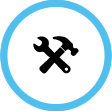
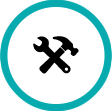
color change

Changed region(s): [[0.0, 0.0, 1.0, 1.0]]

diff --git a/css/style.css b/css/style.css
@@ -886,7 +886,7 @@ body {
   font-size: 14px;
   line-height: 1.42857143;
   color: #ffffff;
-  background-color: #464637;
+  background-color: #333333;
 }
 input,
 button,
@@ -932,7 +932,7 @@ img {
 .img-thumbnail {
   padding: 4px;
   line-height: 1.42857143;
-  background-color: #464637;
+  background-color: #333333;
   border: 1px solid #dddddd;
   border-radius: 4px;
   -webkit-transition: all 0.2s ease-in-out;
@@ -2080,7 +2080,7 @@ th {
   border-top: 2px solid #dddddd;
 }
 .table .table {
-  background-color: #464637;
+  background-color: #333333;
 }
 .table-condensed > thead > tr > th,
 .table-condensed > tbody > tr > th,
@@ -3622,7 +3622,7 @@ select[multiple].input-group-sm > .input-group-btn > .btn {
 .nav-tabs > li.active > a:hover,
 .nav-tabs > li.active > a:focus {
   color: #555555;
-  background-color: #464637;
+  background-color: #333333;
   border: 1px solid #dddddd;
   border-bottom-color: transparent;
   cursor: default;
@@ -3668,7 +3668,7 @@ select[multiple].input-group-sm > .input-group-btn > .btn {
   .nav-tabs.nav-justified > .active > a,
   .nav-tabs.nav-justified > .active > a:hover,
   .nav-tabs.nav-justified > .active > a:focus {
-    border-bottom-color: #464637;
+    border-bottom-color: #333333;
   }
 }
 .nav-pills > li {
@@ -3736,7 +3736,7 @@ select[multiple].input-group-sm > .input-group-btn > .btn {
   .nav-tabs-justified > .active > a,
   .nav-tabs-justified > .active > a:hover,
   .nav-tabs-justified > .active > a:focus {
-    border-bottom-color: #464637;
+    border-bottom-color: #333333;
   }
 }
 .tab-content > .tab-pane {
@@ -4072,8 +4072,8 @@ select[multiple].input-group-sm > .input-group-btn > .btn {
   }
 }
 .navbar-default {
-  background-color: #0f749e;
-  border-color: #0c5e7f;
+  background-color: #112f41;
+  border-color: #0a1c27;
 }
 .navbar-default .navbar-brand {
   color: #ffffff;
@@ -4098,7 +4098,7 @@ select[multiple].input-group-sm > .input-group-btn > .btn {
 .navbar-default .navbar-nav > .active > a:hover,
 .navbar-default .navbar-nav > .active > a:focus {
   color: #cccccc;
-  background-color: #0c5e7f;
+  background-color: #0a1c27;
 }
 .navbar-default .navbar-nav > .disabled > a,
 .navbar-default .navbar-nav > .disabled > a:hover,
@@ -4118,12 +4118,12 @@ select[multiple].input-group-sm > .input-group-btn > .btn {
 }
 .navbar-default .navbar-collapse,
 .navbar-default .navbar-form {
-  border-color: #0c5e7f;
+  border-color: #0a1c27;
 }
 .navbar-default .navbar-nav > .open > a,
 .navbar-default .navbar-nav > .open > a:hover,
 .navbar-default .navbar-nav > .open > a:focus {
-  background-color: #0c5e7f;
+  background-color: #0a1c27;
   color: #cccccc;
 }
 @media (max-width: 767px) {
@@ -4139,7 +4139,7 @@ select[multiple].input-group-sm > .input-group-btn > .btn {
   .navbar-default .navbar-nav .open .dropdown-menu > .active > a:hover,
   .navbar-default .navbar-nav .open .dropdown-menu > .active > a:focus {
     color: #cccccc;
-    background-color: #0c5e7f;
+    background-color: #0a1c27;
   }
   .navbar-default .navbar-nav .open .dropdown-menu > .disabled > a,
   .navbar-default .navbar-nav .open .dropdown-menu > .disabled > a:hover,
@@ -4567,7 +4567,7 @@ a.list-group-item.active > .badge,
   padding: 4px;
   margin-bottom: 20px;
   line-height: 1.42857143;
-  background-color: #464637;
+  background-color: #333333;
   border: 1px solid #dddddd;
   border-radius: 4px;
   -webkit-transition: all 0.2s ease-in-out;
@@ -6198,16 +6198,16 @@ body {
   display: inline-block;
 }
 .orangeBg {
-  background: #ffbf00;
-  border: 1px solid #997300;
+  background: #fc5b3f;
+  border: 1px solid #fb300d;
 }
 .lightGreenBg {
-  background: #ccc314;
-  border: 1px solid #6f6a0b;
+  background: #6fb07f;
+  border: 1px solid #549865;
 }
 .lightBlueBg {
-  background: #1496cc;
-  border: 1px solid #0b526f;
+  background: #068587;
+  border: 1px solid #045556;
 }
 .wrapper {
   width: 100%;

diff --git a/index.html b/index.html
@@ -20,7 +20,9 @@
   
        <nav class="navbar navbar-default container-fluid" role="navigation">
           <div class="container-fluid">
-            <!-- Brand and toggle get grouped for better mobile display -->
+           <div class="col-md-2"></div>
+           <div class="col-md-4 col-md-offset-2">
+                <!-- Brand and toggle get grouped for better mobile display -->
             <div class="navbar-header">
               <button type="button" class="navbar-toggle collapsed" data-toggle="collapse" data-target="#bs-example-navbar-collapse-1">
                 <span class="sr-only">Toggle navigation</span>
@@ -41,6 +43,9 @@
        
        
             </div><!-- /.navbar-collapse -->
+           </div>
+           <div class="col-md-2"></div>
+           
           </div><!-- /.container-fluid -->
         </nav>
 
@@ -95,10 +100,29 @@
             <div class="col-xs-12">&nbsp;</div>
         </div>
         <div class="row">
-            <div class="col-xs-10">
+            <div class="col-xs-12">
                 <h2>
-                    Graphs?
+                    Graphs
                 </h2>
+            </div>
+        </div>
+        <div class="row">
+            <div class="col-xs-10 col-md-3">
+                
+                <h3>
+                    Weight
+                </h3>
+                <p>
+                    Start: 230 lbs. <br>
+                    Date: 
+                </p>
+                <p>
+                    Current: 230 lbs. <br>
+                    Date:
+                </p>
+            </div>
+            <div class="col-xs-10 col-md-3">
+                
                 <h3>
                     Weight
                 </h3>

diff --git a/less/variables.less b/less/variables.less
@@ -23,22 +23,24 @@
 @white:                 #fff;
 @black:                 #000;
 @whiteBg:               @white;
-@orange:                 #FFBF00;
+@orange:                 #FC5B3F;
 @orangeBg:               @orange;
-@orangeBgBorder:         darken(@orange, 20%);
-@lightGreen:             #CCC314;
+@orangeBgBorder:         darken(@orange, 10%);
+@lightGreen:             #6FB07F;
 @lightGreenBg:          @lightGreen;
-@lightGreenBgBorder:     darken(@lightGreen, 20%);
-@lightBlue:             #1496CC;
+@lightGreenBgBorder:     darken(@lightGreen, 10%);
+@lightBlue:             #068587;
 @lightBlueBg:           @lightBlue;
-@lightBlueBgBorder:     darken(@lightBlue, 20%);
+@lightBlueBgBorder:     darken(@lightBlue, 10%);
+;
+@navColor:             #112F41;
 
 //== Scaffolding
 //
 //## Settings for some of the most global styles.
 
 //** Background color for `<body>`.
-@body-bg:               #464637;
+@body-bg:               @gray-dark;
 //** Global text color on `<body>`.
 @text-color:            @white;
 
@@ -356,7 +358,7 @@
 @navbar-collapse-max-height:       340px;
 
 @navbar-default-color:             #777;
-@navbar-default-bg:                darken(@lightBlue,10%);
+@navbar-default-bg:                @navColor;//darken(@navColor,1%);
 @navbar-default-border:            darken(@navbar-default-bg, 6.5%);
 
 // Navbar links
